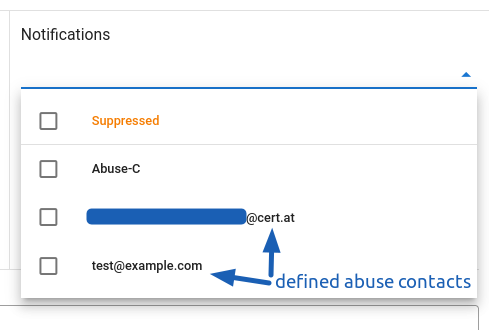
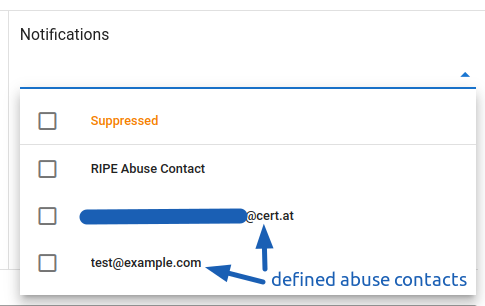
Improved pictures afrer fixes

diff --git a/docs/Netobjects_and_Notifications/02_rules.md b/docs/Netobjects_and_Notifications/02_rules.md
@@ -106,6 +106,9 @@ You don't have to fill all fields, the empty fields will match any value. In add
 field is provided for your convenience - you can use it to note the reason of the rule to be able
 to understand it later.
 
+<figure markdown="span">![Comment](assets/comment.png)
+_You can see the comment by hovering the icon on the rule list_</figure>
+
 ### Classification
 
 We follow the taxonomy from [Reference Security Incident Taxonomy Working Group](https://github.com/enisaeu/Reference-Security-Incident-Taxonomy-Task-Force)
@@ -148,15 +151,15 @@ In this section, you can manage who should be notified and how often should we r
 (in case the given problem still exists). As destination, you can choose one or more from:
 
 * _Suppressed_ - we will stop informing you about matching events,
-* _Abuse-C_ - this will keep informing the abuse contact from RIPE database,
+* _RIPE Abuse Contact_ - this will keep informing the abuse contact from RIPE database,
 * any contact with _Abuse contact_ role defined for your organisation - see [managing contacts](../Managing_organisation/01_contacts.md).
 
 <figure markdown="span">![Available contacts](assets/contacts.png)
 _Available destinations_</figure>
 
 If you suppress notifications, we will ignore any defined destinations and won't sent it to anyone.
-Note that if you don't select _Abuse-C_, we will not use the RIPE abuse contact anymore for matching
-events.
+Note that if you don't select _RIPE Abuse Contact_, we will not use the RIPE abuse contact anymore
+for matching events.
 
 !!! tip
     We recommend managing filters on your own. If you need a more complex filtering than available

diff --git a/docs/Netobjects_and_Notifications/03_taxonomy.md b/docs/Netobjects_and_Notifications/03_taxonomy.md
@@ -6,7 +6,7 @@ license: Licensed under CC0 1.0 Universal (CC0 1.0)
 # Events Taxonomy
 
 We use taxonomy from the TF-CSIRT Reference Security Incident Taxonomy Working Group
-to classify processed events. The most actual version you can find in the [RSIT WG Github repository](<(https://github.com/enisaeu/Reference-Security-Incident-Taxonomy-Task-Force)>).
+to classify processed events. The most actual version you can find in the [RSIT WG Github repository](https://github.com/enisaeu/Reference-Security-Incident-Taxonomy-Task-Force).
 
 !!! tip
     While it isn't always intuitive, services that most probably shouldn't be directly available
